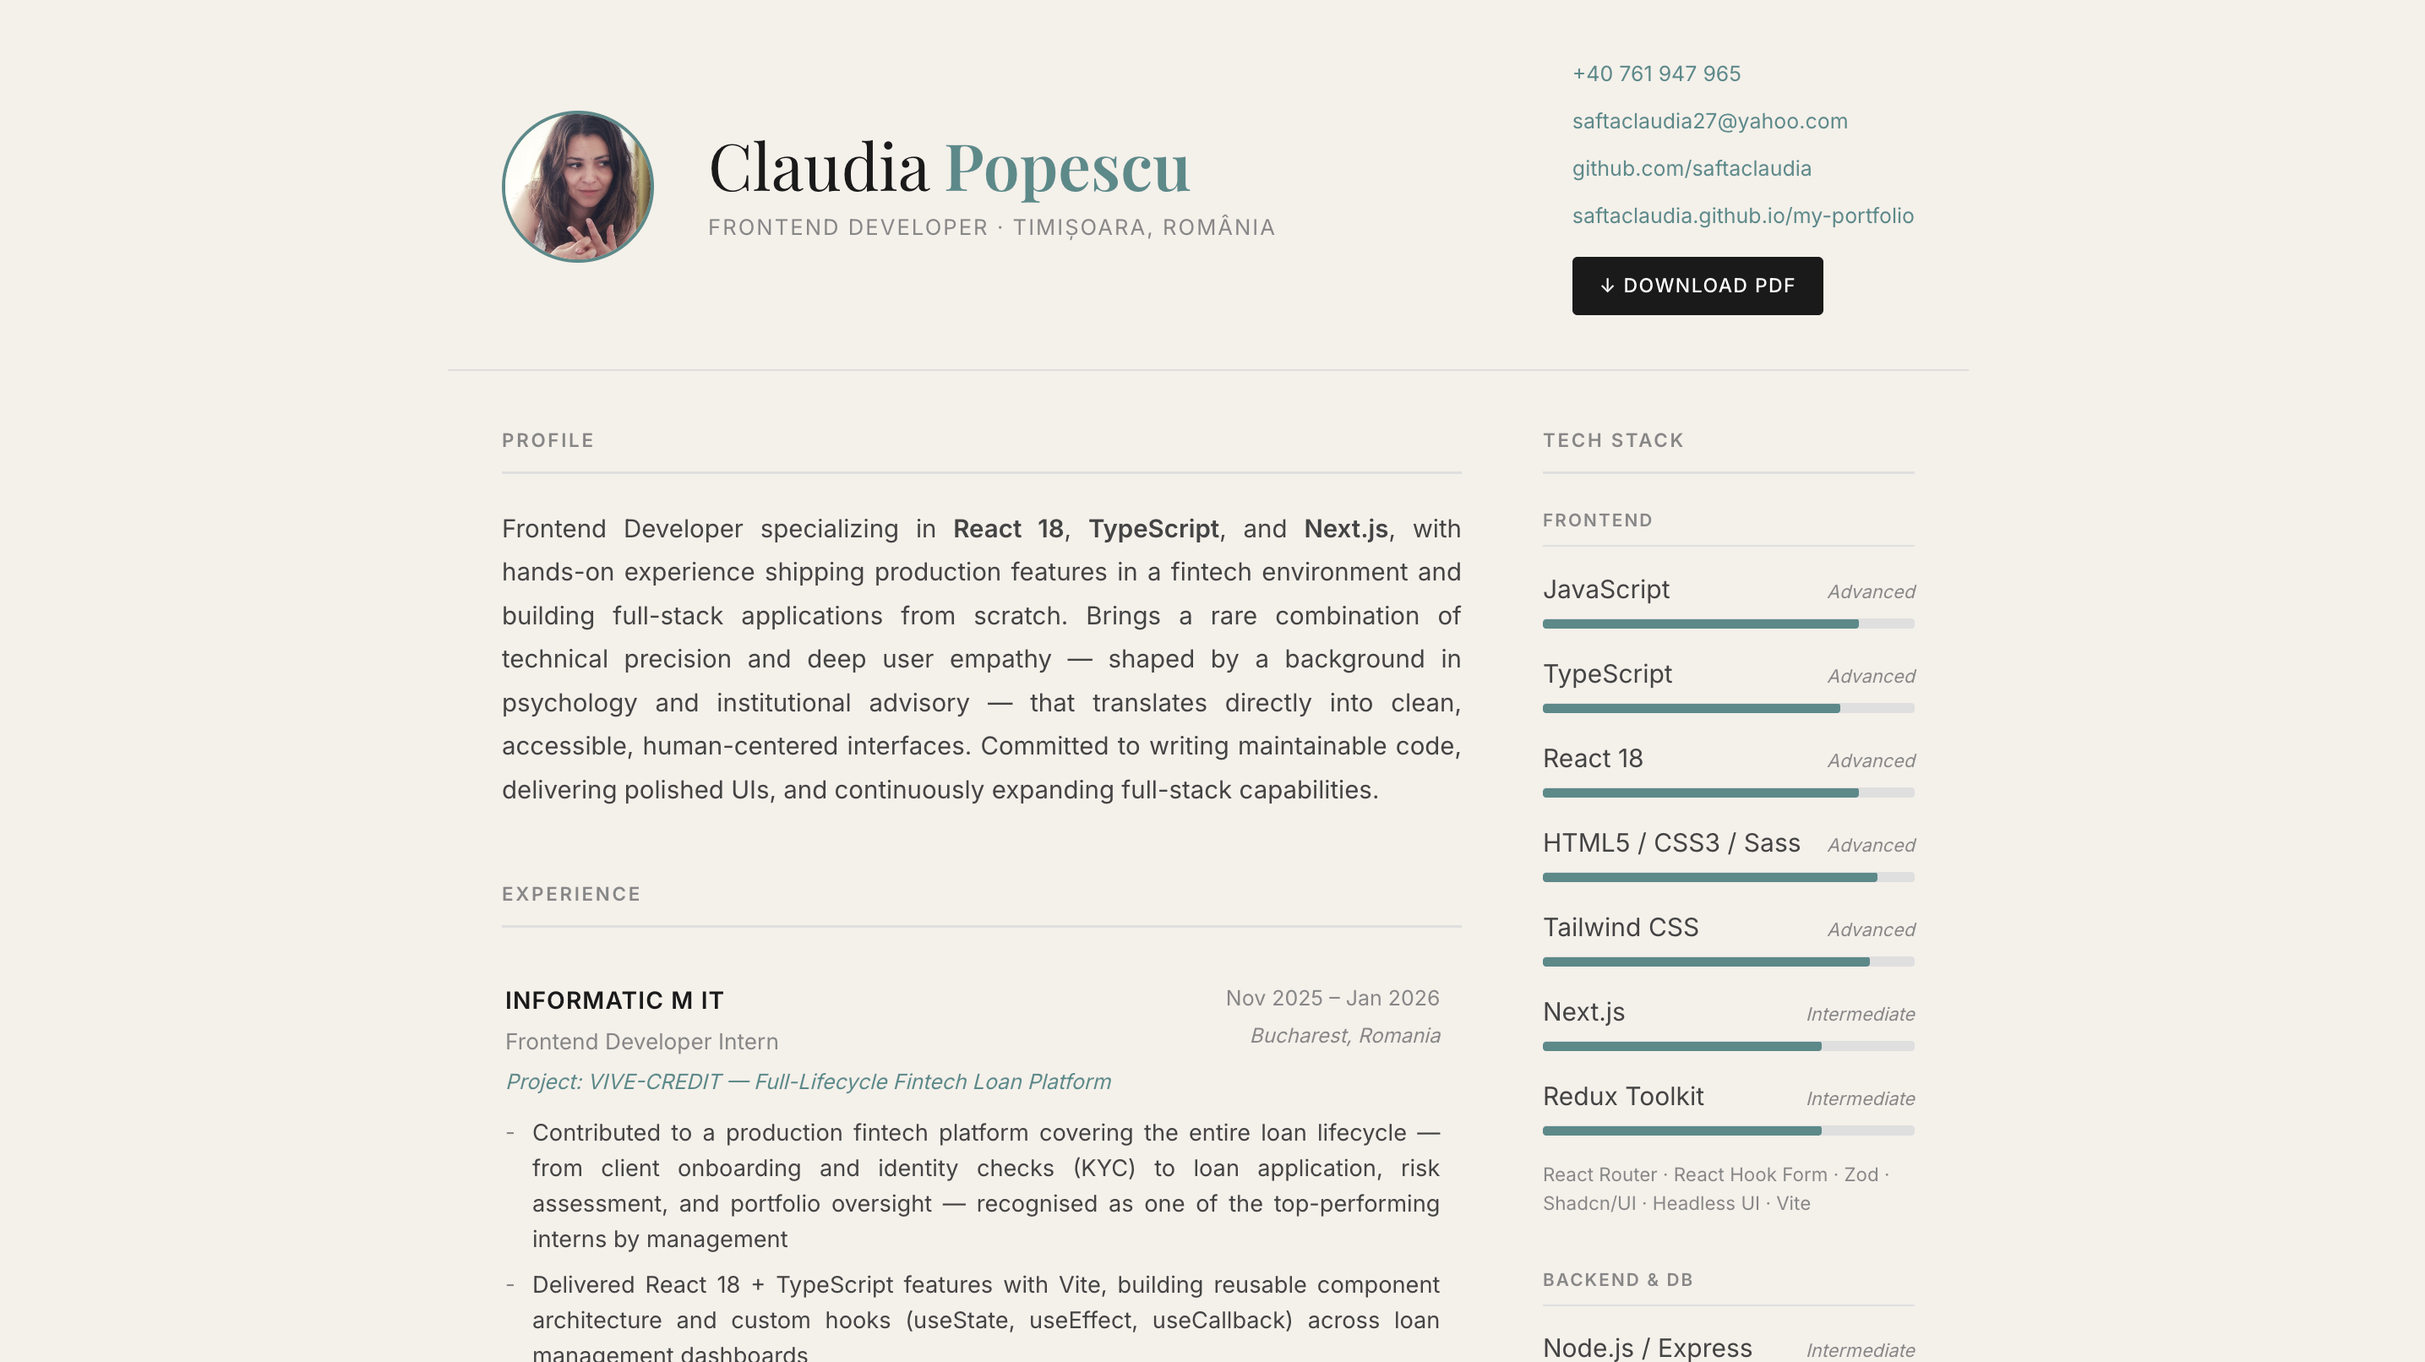
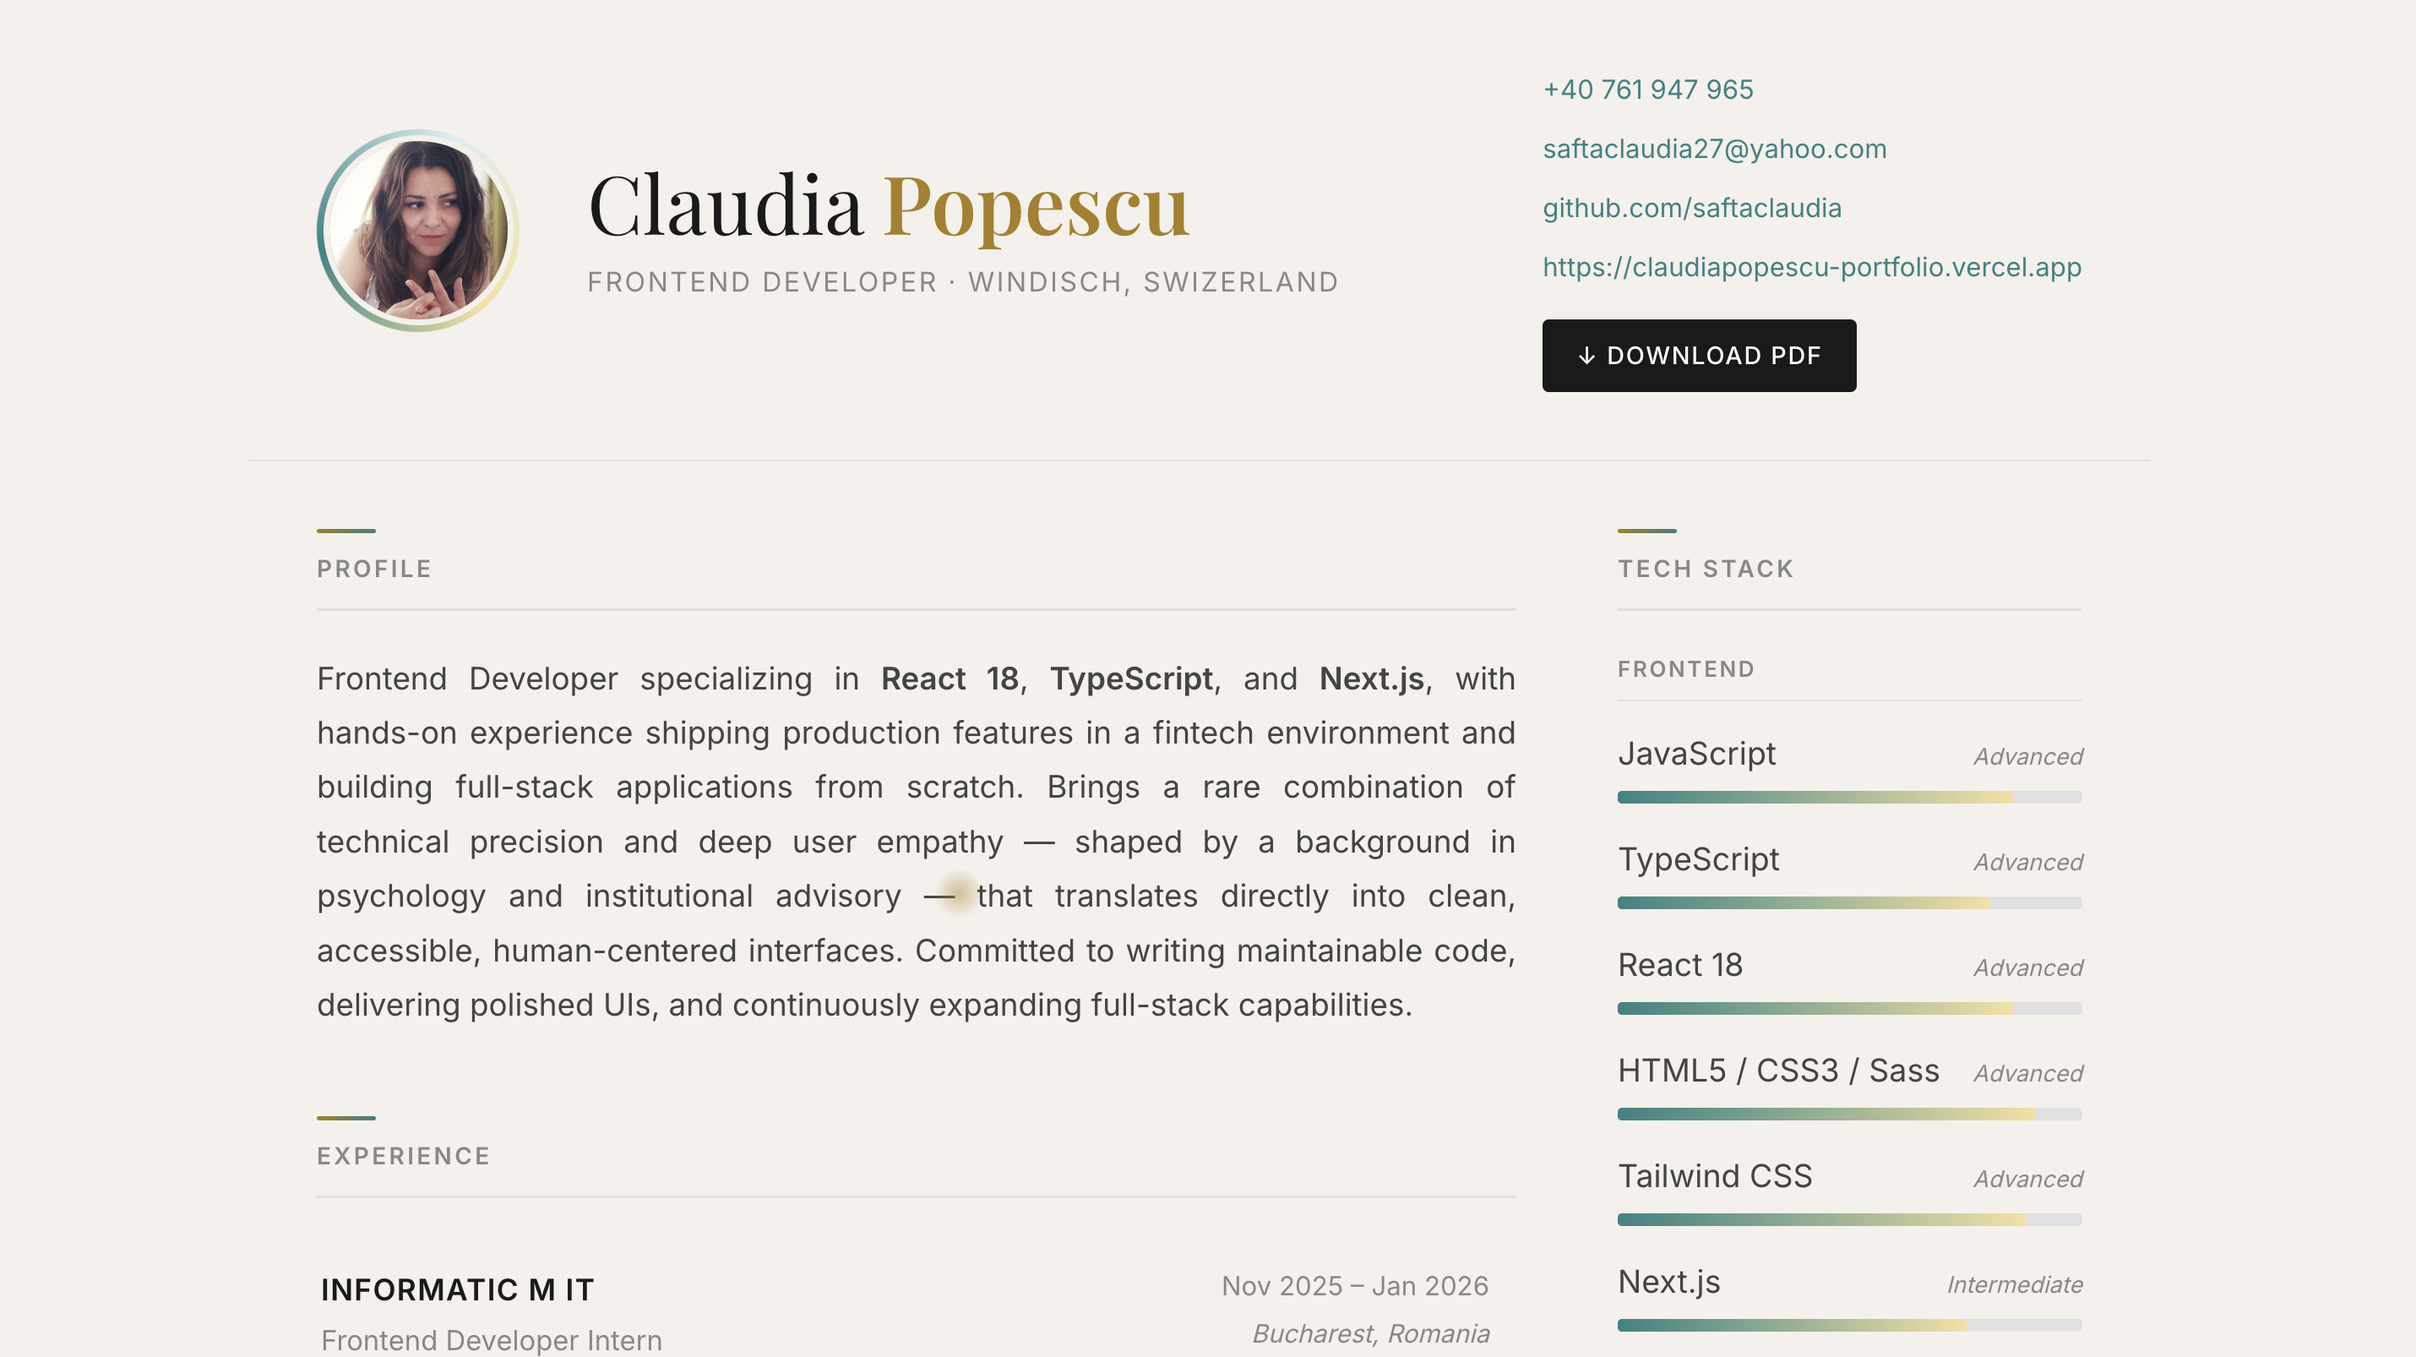
Add mint/coral pallete across hero, projects ans CTAs

diff --git a/src/components/Hero.tsx b/src/components/Hero.tsx
@@ -1,86 +1,111 @@
 import { useTranslation } from "react-i18next";
 import { Sparkles } from "lucide-react";
+import { SiReact, SiTypescript } from "react-icons/si";
 import profilePhoto from "../assets/profile.jpg";
 
 function Hero() {
   const { t } = useTranslation();
 
   return (
-    <section className="grid grid-cols-1 md:grid-cols-2 items-center gap-16 px-8 py-24 max-w-6xl mx-auto min-h-[85vh]">
-      <div className="relative flex justify-center items-center group">
-        <div className="w-[min(70vw,22rem)] h-[min(70vw,22rem)] rounded-full overflow-hidden ring-4 ring-mint-100 dark:ring-gray-800 transition-transform duration-500 group-hover:scale-105">
-          <img
-            src={profilePhoto}
-            alt={t("hero.name")}
-            className="w-full h-full object-cover"
-          />
-        </div>
+    <section className="relative isolate overflow-hidden">
+      <div
+        aria-hidden
+        className="absolute inset-0 -z-10 bg-mint-500 dark:bg-mint-700 [clip-path:polygon(0_0,100%_0,100%_70%,0_100%)]"
+      />
 
-        <div className="absolute -bottom-4 -left-4 w-28 h-28">
-          <svg
-            viewBox="0 0 100 100"
-            className="w-full h-full animate-[spin_16s_linear_infinite]"
-          >
-            <path
-              id="badge-circle"
-              d="M 50,50 m -38,0 a 38,38 0 1,1 76,0 a 38,38 0 1,1 -76,0"
-              fill="none"
+      <div className="grid grid-cols-1 md:grid-cols-2 items-center gap-16 px-8 py-24 max-w-6xl mx-auto min-h-[85vh]">
+        <div className="relative flex justify-center items-center group">
+          <div className="w-[min(70vw,22rem)] h-[min(70vw,22rem)] rounded-full overflow-hidden ring-4 ring-white dark:ring-gray-900 shadow-xl transition-transform duration-500 group-hover:scale-105">
+            <img
+              src={profilePhoto}
+              alt={t("hero.name")}
+              className="w-full h-full object-cover"
             />
-            <text
-              className="fill-gray-700 dark:fill-gray-300"
-              style={{ fontSize: "7.5px", letterSpacing: "1px" }}
-            >
-              <textPath href="#badge-circle">
-                {t("hero.badge")} • {t("hero.badge")} •
-              </textPath>
-            </text>
-          </svg>
+          </div>
 
-          <div className="absolute inset-0 flex items-center justify-center">
-            <div className="w-14 h-14 rounded-full bg-gray-900 dark:bg-white flex items-center justify-center">
-              <Sparkles size={20} className="text-white dark:text-gray-900" />
+          <div className="absolute -bottom-4 -left-4 w-28 h-28">
+            <svg
+              viewBox="0 0 100 100"
+              className="w-full h-full animate-[spin_16s_linear_infinite]"
+            >
+              <path
+                id="badge-circle"
+                d="M 50,50 m -38,0 a 38,38 0 1,1 76,0 a 38,38 0 1,1 -76,0"
+                fill="none"
+              />
+              <text
+                className="fill-gray-700 dark:fill-gray-300"
+                style={{ fontSize: "7.5px", letterSpacing: "1px" }}
+              >
+                <textPath href="#badge-circle">
+                  {t("hero.badge")} • {t("hero.badge")} •
+                </textPath>
+              </text>
+            </svg>
+
+            <div className="absolute inset-0 flex items-center justify-center">
+              <div className="w-14 h-14 rounded-full bg-gray-900 dark:bg-white flex items-center justify-center">
+                <Sparkles size={20} className="text-white dark:text-gray-900" />
+              </div>
             </div>
+          </div>
+
+          <div className="absolute -top-2 -right-2 bg-white dark:bg-gray-900 border border-gray-200 dark:border-gray-700 rounded-full px-4 py-2 shadow-md flex items-center gap-2">
+            <span className="w-2 h-2 rounded-full bg-mint-500 animate-pulse" />
+            <span className="text-xs font-medium text-gray-700 dark:text-gray-300">
+              {t("hero.available")}
+            </span>
+          </div>
+
+          <div className="absolute top-6 -left-6 bg-white dark:bg-gray-900 border border-gray-200 dark:border-gray-700 rounded-full pl-2.5 pr-4 py-2 shadow-md flex items-center gap-2 hidden sm:flex">
+            <SiReact size={16} className="text-mint-700 dark:text-mint-300" />
+            <span className="text-xs font-medium text-gray-700 dark:text-gray-300">
+              React
+            </span>
+          </div>
+
+          <div className="absolute bottom-8 -right-6 bg-white dark:bg-gray-900 border border-gray-200 dark:border-gray-700 rounded-full pl-2.5 pr-4 py-2 shadow-md flex items-center gap-2 hidden sm:flex">
+            <SiTypescript
+              size={16}
+              className="text-mint-700 dark:text-mint-300"
+            />
+            <span className="text-xs font-medium text-gray-700 dark:text-gray-300">
+              TypeScript
+            </span>
           </div>
         </div>
 
-        <div className="absolute -top-2 -right-2 bg-white dark:bg-gray-900 border border-gray-200 dark:border-gray-700 rounded-full px-4 py-2 shadow-md flex items-center gap-2">
-          <span className="w-2 h-2 rounded-full bg-mint-500 animate-pulse" />
-          <span className="text-xs font-medium text-gray-700 dark:text-gray-300">
-            {t("hero.available")}
-          </span>
-        </div>
-      </div>
+        <div>
+          <p className="text-gray-900 dark:text-white font-semibold text-lg mb-3">
+            {t("hero.greeting")}
+          </p>
+          <h1 className="text-5xl font-bold text-gray-900 dark:text-white mb-5 leading-tight">
+            {t("hero.name")}
+          </h1>
+          <h2 className="text-2xl text-gray-800 dark:text-gray-100 mb-8">
+            {t("hero.title")}
+          </h2>
+          <p className="text-gray-800 dark:text-gray-100 max-w-md mb-10 text-lg leading-relaxed">
+            {t("hero.description")}
+          </p>
 
-      <div>
-        <p className="text-mint-700 dark:text-mint-300 text-lg mb-3">
-          {t("hero.greeting")}
-        </p>
-        <h1 className="text-5xl font-bold text-gray-900 dark:text-white mb-5 leading-tight">
-          {t("hero.name")}
-        </h1>
-        <h2 className="text-2xl text-gray-600 dark:text-gray-300 mb-8">
-          {t("hero.title")}
-        </h2>
-        <p className="text-gray-600 dark:text-gray-400 max-w-md mb-10 text-lg leading-relaxed">
-          {t("hero.description")}
-        </p>
-
-        <div className="flex items-center gap-6">
-          <a
-            href="https://saftaclaudia.github.io/interactive-resume/"
-            target="_blank"
-            rel="noopener noreferrer"
-            className="bg-gray-900 dark:bg-white text-white dark:text-gray-900 px-7 py-3.5 rounded-lg font-medium hover:bg-gray-800 dark:hover:bg-gray-100 hover:-translate-y-0.5 focus-visible:outline-none focus-visible:ring-2 focus-visible:ring-mint-500 focus-visible:ring-offset-2 focus-visible:ring-offset-gray-50 dark:focus-visible:ring-offset-gray-950 transition-all duration-200 inline-block"
-          >
-            {t("hero.resume")}
-          </a>
-          <a
-            href="/cv.pdf"
-            download
-            className="rounded-sm text-gray-900 dark:text-white font-medium underline underline-offset-4 hover:text-mint-700 dark:hover:text-mint-300 focus-visible:outline-none focus-visible:ring-2 focus-visible:ring-mint-500 transition-colors"
-          >
-            {t("hero.downloadCv")}
-          </a>
+          <div className="flex items-center gap-6">
+            <a
+              href="https://saftaclaudia.github.io/interactive-resume/"
+              target="_blank"
+              rel="noopener noreferrer"
+              className="bg-coral-500 text-white px-7 py-3.5 rounded-lg font-medium hover:bg-coral-700 hover:-translate-y-0.5 focus-visible:outline-none focus-visible:ring-2 focus-visible:ring-white focus-visible:ring-offset-2 focus-visible:ring-offset-mint-500 dark:focus-visible:ring-offset-mint-700 transition-all duration-200 inline-block shadow-lg shadow-coral-500/30"
+            >
+              {t("hero.resume")}
+            </a>
+            <a
+              href="/cv.pdf"
+              download
+              className="rounded-lg text-gray-900 dark:text-white font-medium px-7 py-3.5 border border-gray-900/20 dark:border-white/30 hover:bg-gray-900/10 dark:hover:bg-white/10 hover:-translate-y-0.5 focus-visible:outline-none focus-visible:ring-2 focus-visible:ring-white transition-all duration-200 inline-block"
+            >
+              {t("hero.downloadCv")}
+            </a>
+          </div>
         </div>
       </div>
     </section>

diff --git a/src/components/ProjectCard.tsx b/src/components/ProjectCard.tsx
@@ -1,7 +1,7 @@
 import { Link } from "react-router-dom";
 import type { Project } from "../types/project";
 import { useTranslation } from "react-i18next";
-import { ImageOff } from "lucide-react";
+import { ImageOff, ArrowUpRight } from "lucide-react";
 
 interface ProjectCardProps {
   project: Project;
@@ -9,6 +9,7 @@ interface ProjectCardProps {
 
 function ProjectCard({ project }: ProjectCardProps) {
   const { t } = useTranslation();
+  const previewTags = project.tech[0]?.items.slice(0, 3) ?? [];
 
   return (
     <Link
@@ -30,15 +31,29 @@ function ProjectCard({ project }: ProjectCardProps) {
             </span>
           </div>
         )}
+
+        <div className="absolute top-4 right-4 w-10 h-10 rounded-full bg-coral-500 text-white flex items-center justify-center shadow-lg opacity-0 scale-75 group-hover:opacity-100 group-hover:scale-100 transition-all duration-300">
+          <ArrowUpRight size={20} />
+        </div>
       </div>
 
       <div className="p-6 bg-white dark:bg-gray-900">
         <h3 className="text-xl font-bold text-gray-900 dark:text-white mb-2">
           {t(`projects.${project.slug}.title`)}
         </h3>
-        <p className="text-gray-600 dark:text-gray-400 text-sm leading-relaxed line-clamp-2">
+        <p className="text-gray-600 dark:text-gray-400 text-sm leading-relaxed line-clamp-2 mb-4">
           {t(`projects.${project.slug}.description`)}
         </p>
+        <div className="flex flex-wrap gap-2">
+          {previewTags.map((tag) => (
+            <span
+              key={tag}
+              className="text-xs font-medium bg-mint-100 dark:bg-gray-800 text-mint-700 dark:text-mint-300 px-2.5 py-1 rounded-full"
+            >
+              {tag}
+            </span>
+          ))}
+        </div>
       </div>
     </Link>
   );

diff --git a/src/pages/ProjectDetailPage.tsx b/src/pages/ProjectDetailPage.tsx
@@ -14,7 +14,7 @@ function ProjectDetailPage() {
   }
 
   const primaryButtonClass =
-    "flex items-center gap-2 bg-gray-900 dark:bg-white text-white dark:text-gray-900 px-6 py-3 rounded-lg font-medium hover:bg-gray-800 dark:hover:bg-gray-100 focus-visible:outline-none focus-visible:ring-2 focus-visible:ring-mint-500 focus-visible:ring-offset-2 focus-visible:ring-offset-gray-50 dark:focus-visible:ring-offset-gray-950 transition-colors";
+    "flex items-center gap-2 bg-coral-500 text-white px-6 py-3 rounded-lg font-medium hover:bg-coral-700 focus-visible:outline-none focus-visible:ring-2 focus-visible:ring-mint-500 focus-visible:ring-offset-2 focus-visible:ring-offset-gray-50 dark:focus-visible:ring-offset-gray-950 transition-colors";
   const secondaryButtonClass =
     "rounded-sm flex items-center gap-2 text-gray-900 dark:text-white font-medium underline underline-offset-4 hover:text-mint-700 dark:hover:text-mint-300 focus-visible:outline-none focus-visible:ring-2 focus-visible:ring-mint-500 transition-colors";
 

diff --git a/src/components/Contact.tsx b/src/components/Contact.tsx
@@ -159,7 +159,7 @@ function Contact() {
         <button
           type="submit"
           disabled={isSending}
-          className="bg-gray-900 dark:bg-white text-white dark:text-gray-900 px-6 py-3 rounded-lg font-medium hover:bg-gray-800 dark:hover:bg-gray-100 focus-visible:outline-none focus-visible:ring-2 focus-visible:ring-mint-500 focus-visible:ring-offset-2 focus-visible:ring-offset-gray-50 dark:focus-visible:ring-offset-gray-950 transition-colors"
+          className="bg-coral-500 text-white px-6 py-3 rounded-lg font-medium hover:bg-coral-700 disabled:opacity-60 disabled:cursor-not-allowed focus-visible:outline-none focus-visible:ring-2 focus-visible:ring-mint-500 focus-visible:ring-offset-2 focus-visible:ring-offset-gray-50 dark:focus-visible:ring-offset-gray-950 transition-colors"
         >
           {isSending ? "..." : t("contact.send")}
         </button>

diff --git a/src/data/projects.ts b/src/data/projects.ts
@@ -1,6 +1,6 @@
 import type { Project } from "../types/project";
 import interactiveResumeImg from "../assets/projects/preview_interactive-resume.png";
-import meditrackImg from "../assets/projects/preview_meditrack.phg.jpg";
+import meditrackImg from "../assets/projects/preview_meditrack.png";
 
 export const projects: Project[] = [
   {
@@ -17,7 +17,7 @@ export const projects: Project[] = [
         ],
       },
     ],
-    liveUrl: "https://saftaclaudia.github.io/interactive-resume/",
+    liveUrl: "https://interactive-resume-ochre.vercel.app/",
     githubUrl: "https://github.com/saftaclaudia/interactive-resume",
     image: interactiveResumeImg,
   },

diff --git a/src/components/Projects.tsx b/src/components/Projects.tsx
@@ -7,6 +7,9 @@ function Projects() {
 
   return (
     <section id="projects" className="px-8 py-24 max-w-6xl mx-auto">
+      <p className="text-coral-500 dark:text-coral-300 font-semibold text-sm tracking-wide uppercase text-center mb-3">
+        {t("projects.eyebrow")}
+      </p>
       <h2 className="text-4xl font-bold text-gray-900 dark:text-white mb-2 text-center">
         {t("header.projects")}
       </h2>

diff --git a/README.md b/README.md
@@ -1,7 +1,7 @@
 # Claudia Popescu - Portfolio
 
 Personal portfolio website built with React, TypeScript and Tailwind CSS. Features dark/light mode, EN/DE language switching and a working contact form.
-**Live site:** [claudiapopescu-portfolio.vercele.app](https://claudiapopescu-portfolio.vercel.app/)
+**Live site:** [claudiapopescu-portfolio.vercel.app](https://claudiapopescu-portfolio.vercel.app/)
 
 ## Features
 
@@ -55,5 +55,6 @@ src/
 
 ## Contact
 
+- Live site: [claudiapopescu-portfolio.vercel.app](https://claudiapopescu-portfolio.vercel.app/)
 - GitHub: [@saftaclaudia](https://github.com/saftaclaudia)
 - LinkedIn: [Claudia Popescu](https://www.linkedin.com/in/claudia-popescu-frontend-developer/)
